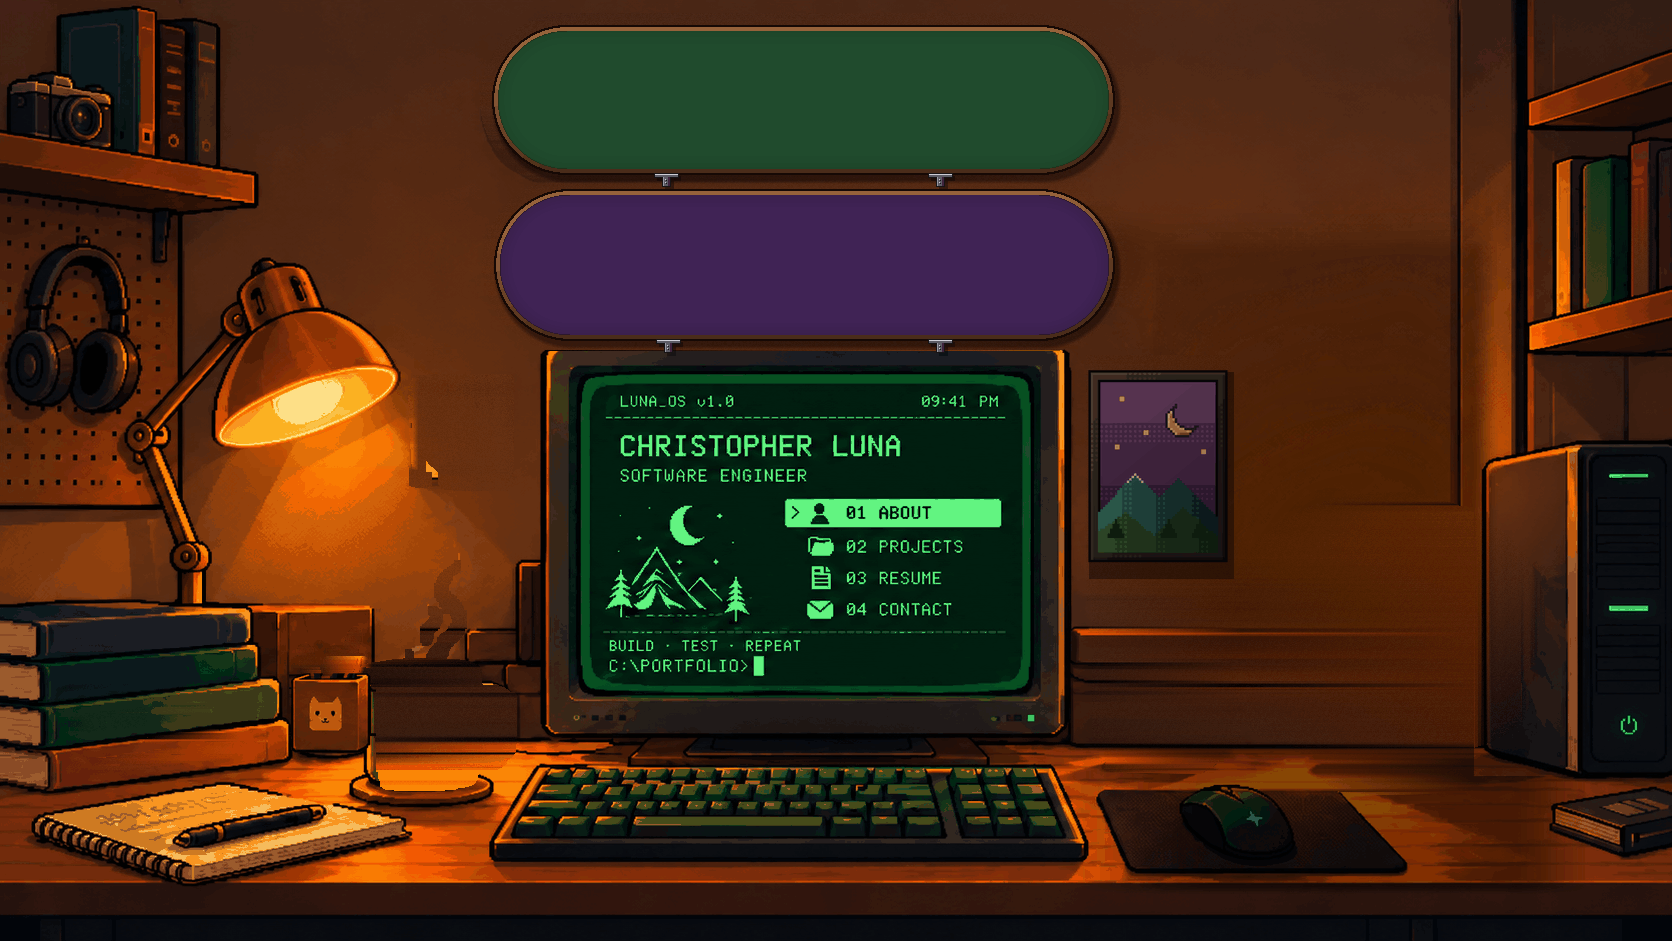
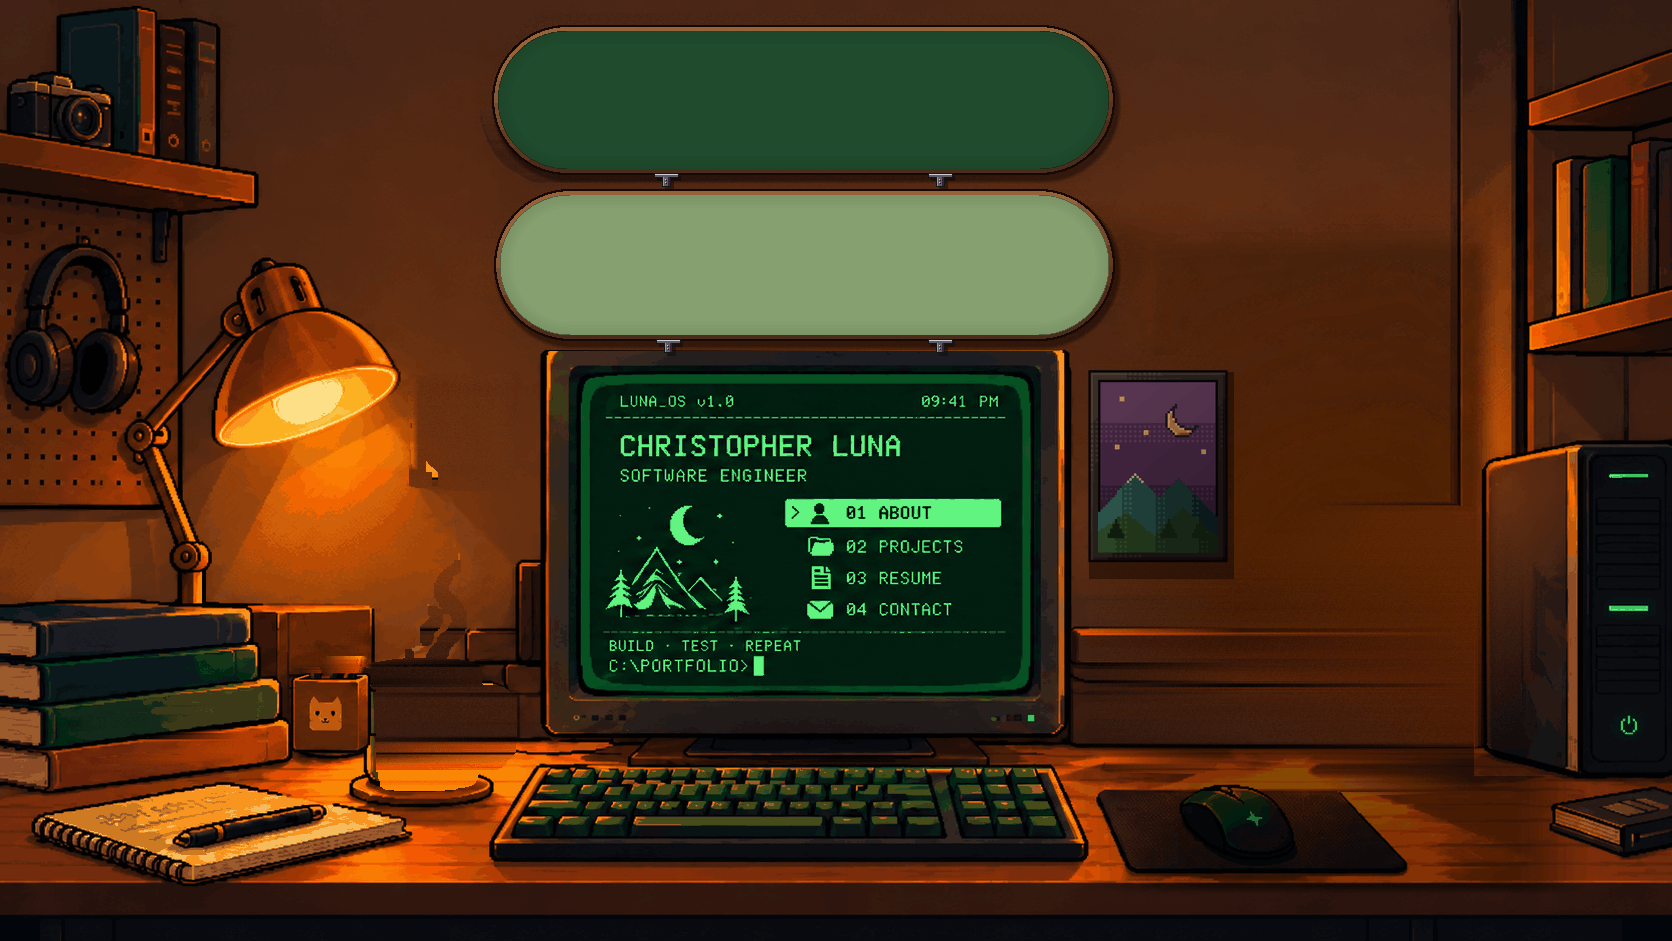
CSUDH colours on a sage second deck; name in the screen's header bar

Changed region(s): [[0.2799, 0.1849, 0.6842, 0.3698]]

diff --git a/components/cinema/CinemaScene.tsx b/components/cinema/CinemaScene.tsx
@@ -116,8 +116,10 @@ const NOTE_TEXTS = [
  * centre, or its left middle with align "left"), size the font size, rotate follows the
  * book spines' slant.
  */
+/** A run of a line in its own colour (the school's two colours share a line). */
+type WallRun = { text: string; color: string };
 interface WallText {
-  lines: string[];
+  lines: (string | WallRun[])[];
   x: number;
   y: number;
   size: number;
@@ -128,12 +130,19 @@ interface WallText {
   weight?: number;
   leading?: number;
 }
+const CSU_BURGUNDY = "#7e012d";
+const DH_GOLD = "#fcbe11";
 const WALL_TEXT: WallText[] = [
   { lines: ["CHRISTOPHER LUNA"], x: 803, y: 86, size: 40, color: "#f6bb5c", weight: 700, track: 0.06 },
   { lines: ["LUNA_CHRISTOPHER98@HOTMAIL.COM"], x: 803, y: 120, size: 15, color: "#e9b468", weight: 500, track: 0.06 },
   { lines: ["ANAHEIM, CA 92806  ·  (714) 800-3264"], x: 803, y: 140, size: 11.5, color: "#e9b468", weight: 500, track: 0.08 },
-  { lines: ["CALIFORNIA STATE UNIVERSITY, DOMINGUEZ HILLS"], x: 803, y: 248, size: 18, color: "#eb9a4c", weight: 700, track: 0.07 },
-  { lines: ["FIRST GEN  ·  BACHELOR OF SCIENCE  ·  COMPUTER SCIENCE"], x: 803, y: 280, size: 12.5, color: "#e9b468", weight: 500, track: 0.1 },
+  // the school in its colours, CSU burgundy and DH gold, on the sage deck
+  {
+    lines: [[{ text: "CALIFORNIA STATE UNIVERSITY, ", color: CSU_BURGUNDY }, { text: "DOMINGUEZ HILLS", color: DH_GOLD }]],
+    x: 803, y: 240, size: 18, color: CSU_BURGUNDY, weight: 700, track: 0.07,
+  },
+  { lines: ["BACHELOR OF SCIENCE  ·  COMPUTER SCIENCE"], x: 803, y: 270, size: 13, color: CSU_BURGUNDY, weight: 600, track: 0.1 },
+  { lines: ["FIRST GEN"], x: 803, y: 292, size: 12, color: CSU_BURGUNDY, weight: 600, track: 0.24 },
   { lines: ["ALGORITHMS"], x: 66, y: 637, size: 15, color: "#e7a256", align: "left", rotate: -2.2, track: 0.14, weight: 600 },
   { lines: ["TYPESCRIPT"], x: 68, y: 677, size: 15, color: "#e7a256", align: "left", rotate: -2.7, track: 0.14, weight: 600 },
   { lines: ["SYSTEM DESIGN"], x: 70, y: 719, size: 15.5, color: "#e7a256", align: "left", rotate: -4.8, track: 0.14, weight: 600 },
@@ -815,11 +824,23 @@ export default function CinemaScene() {
             onError={() => setLoadedImage(art.image)}
           />
 
-          {/* The words on the decks, the poster and the book spines */}
+          {/* The words on the decks and the book spines */}
           {WALL_TEXT.map((t) => (
-            <p key={t.lines.join(" ")} className="cinema__wall-text" style={wallTextStyle(t)}>
+            <p
+              key={t.lines.map((l) => (typeof l === "string" ? l : l.map((r) => r.text).join(""))).join(" ")}
+              className="cinema__wall-text"
+              style={wallTextStyle(t)}
+            >
               {t.lines.map((line, i) => (
-                <span key={i}>{line}</span>
+                <span key={i}>
+                  {typeof line === "string"
+                    ? line
+                    : line.map((r) => (
+                        <span key={r.text} className={r.color === DH_GOLD ? "cinema__wall-gold" : undefined} style={{ color: r.color }}>
+                          {r.text}
+                        </span>
+                      ))}
+                </span>
               ))}
             </p>
           ))}

diff --git a/scripts/cinema-blend.js b/scripts/cinema-blend.js
@@ -214,7 +214,8 @@ const savePng = (buf, w, h, ch, file) => sharp(buf, { raw: { width: w, height: h
   // deck is redrawn from its outline's box as a clean stadium: dark outline, a thin wood edge lit along
   // the top and shaded under, the flat face, a soft shadow on the wall; it rests on two steel brackets
   {
-    const DECKS = [{ box: [492, 25, 1114, 175] }, { box: [494, 189, 1114, 341] }];
+    // the second deck is repainted sage, so the school's burgundy and gold read on it
+    const DECKS = [{ box: [492, 25, 1114, 175] }, { box: [494, 189, 1114, 341], repaint: [134, 160, 112] }];
     const src = Buffer.from(img);
     for (const d of DECKS) {
       const [x0, y0, x1, y1] = d.box, cy = (y0 + y1) / 2, R = (y1 - y0) / 2;
@@ -226,7 +227,7 @@ const savePng = (buf, w, h, ch, file) => sharp(buf, { raw: { width: w, height: h
         const i = (y * W + x) * 3, k = (src[i] << 16) | (src[i + 1] << 8) | src[i + 2]; count.set(k, (count.get(k) || 0) + 1);
       }
       const k = [...count].sort((a, b) => b[1] - a[1])[0][0];
-      d.face = [k >> 16, (k >> 8) & 255, k & 255];
+      d.face = d.repaint ?? [k >> 16, (k >> 8) & 255, k & 255];
     }
     const RX0 = 470, RY0 = 10, RX1 = 1140, RY1 = 350;
     // 1. the wall behind each deck and wherever its old rim and drips reached, rebuilt across from the

diff --git a/components/cinema/LofiOS.tsx b/components/cinema/LofiOS.tsx
@@ -24,7 +24,7 @@ const formatClock = () =>
   new Date().toLocaleTimeString([], { hour: "2-digit", minute: "2-digit" }).toUpperCase();
 
 /**
- * LUNA_OS as drawn in the lo-fi art: header bar with a live clock, name,
+ * LUNA_OS as drawn in the lo-fi art: header bar with my name and a live clock, title,
  * the moon-and-mountains illustration beside a numbered menu, and the
  * prompt. Opening an item swaps the body for the
  * same .EXE windows v1 uses. Arrow keys, Enter and 1–4 drive the menu.
@@ -83,14 +83,13 @@ export default function LofiOS({
   return (
     <div className="lofi">
       <div className="lofi__bar" aria-hidden="true">
-        <span>LUNA_OS v1.0</span>
+        <span>CHRISTOPHER LUNA</span>
         <span>{clock}</span>
       </div>
       <div className="lofi__rule" aria-hidden="true" />
 
       {activeApp === null ? (
         <>
-          <p className="lofi__name">CHRISTOPHER LUNA</p>
           <p className="lofi__title">SOFTWARE ENGINEER</p>
           <div className="lofi__body">
             <Image

diff --git a/components/cinema/cinema.css b/components/cinema/cinema.css
@@ -112,6 +112,16 @@
 }
 
 /* the words on the decks, the poster and the book spines, in the room's typeface */
+/* gold on the sage deck: a thin dark edge so it holds its shape */
+.cinema__wall-gold {
+  text-shadow:
+    0.04em 0 0 #3a2208,
+    -0.04em 0 0 #3a2208,
+    0 0.04em 0 #3a2208,
+    0 -0.04em 0 #3a2208,
+    0 0.08em 0 rgba(20, 8, 2, 0.45);
+}
+
 .cinema__wall-text {
   position: absolute;
   z-index: 2;
